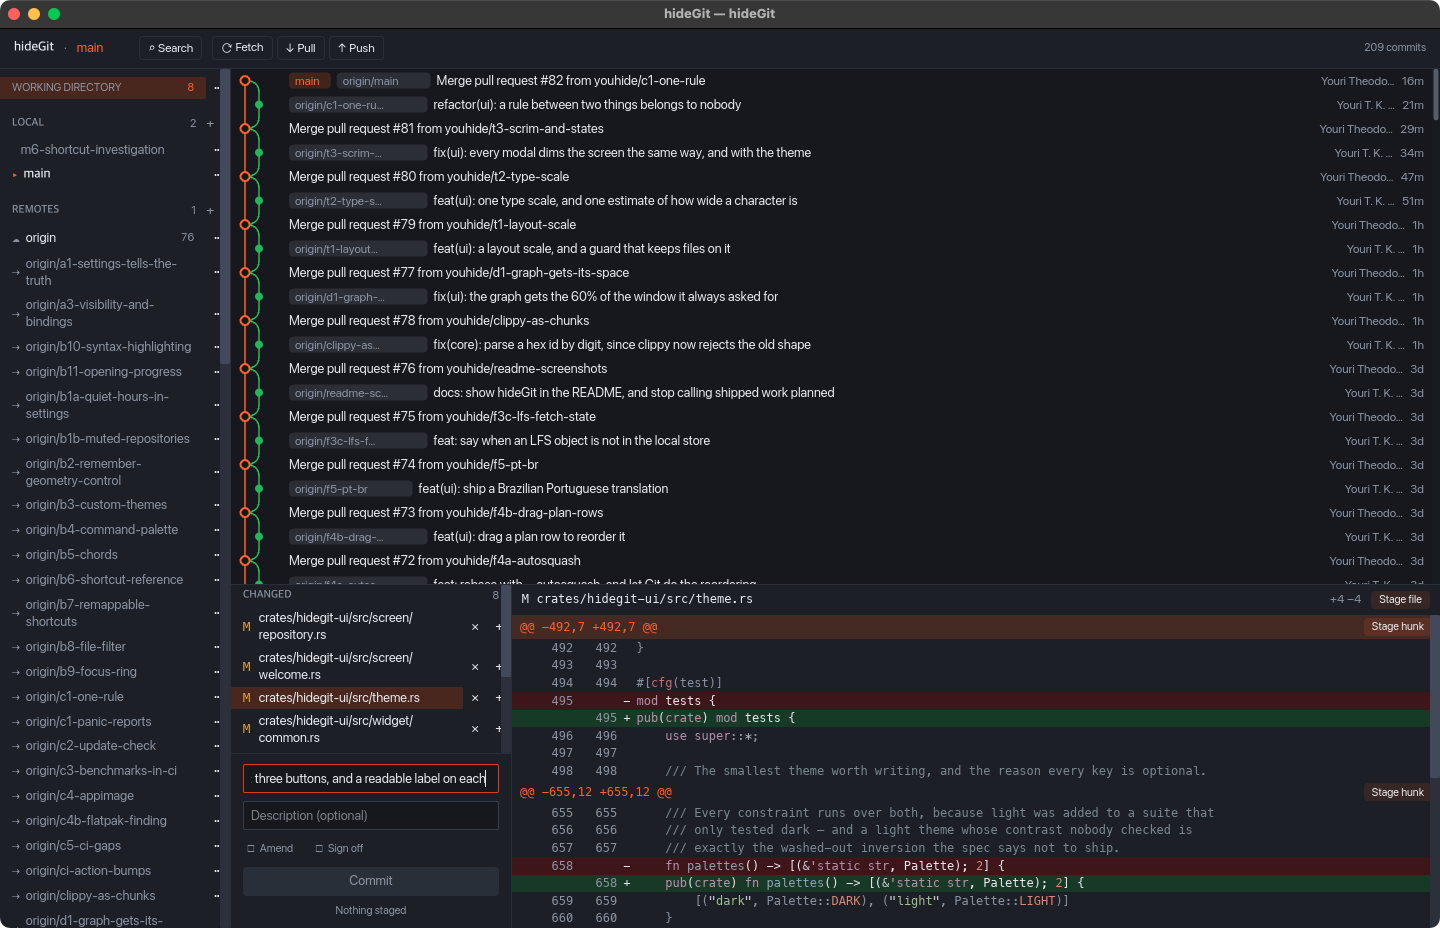
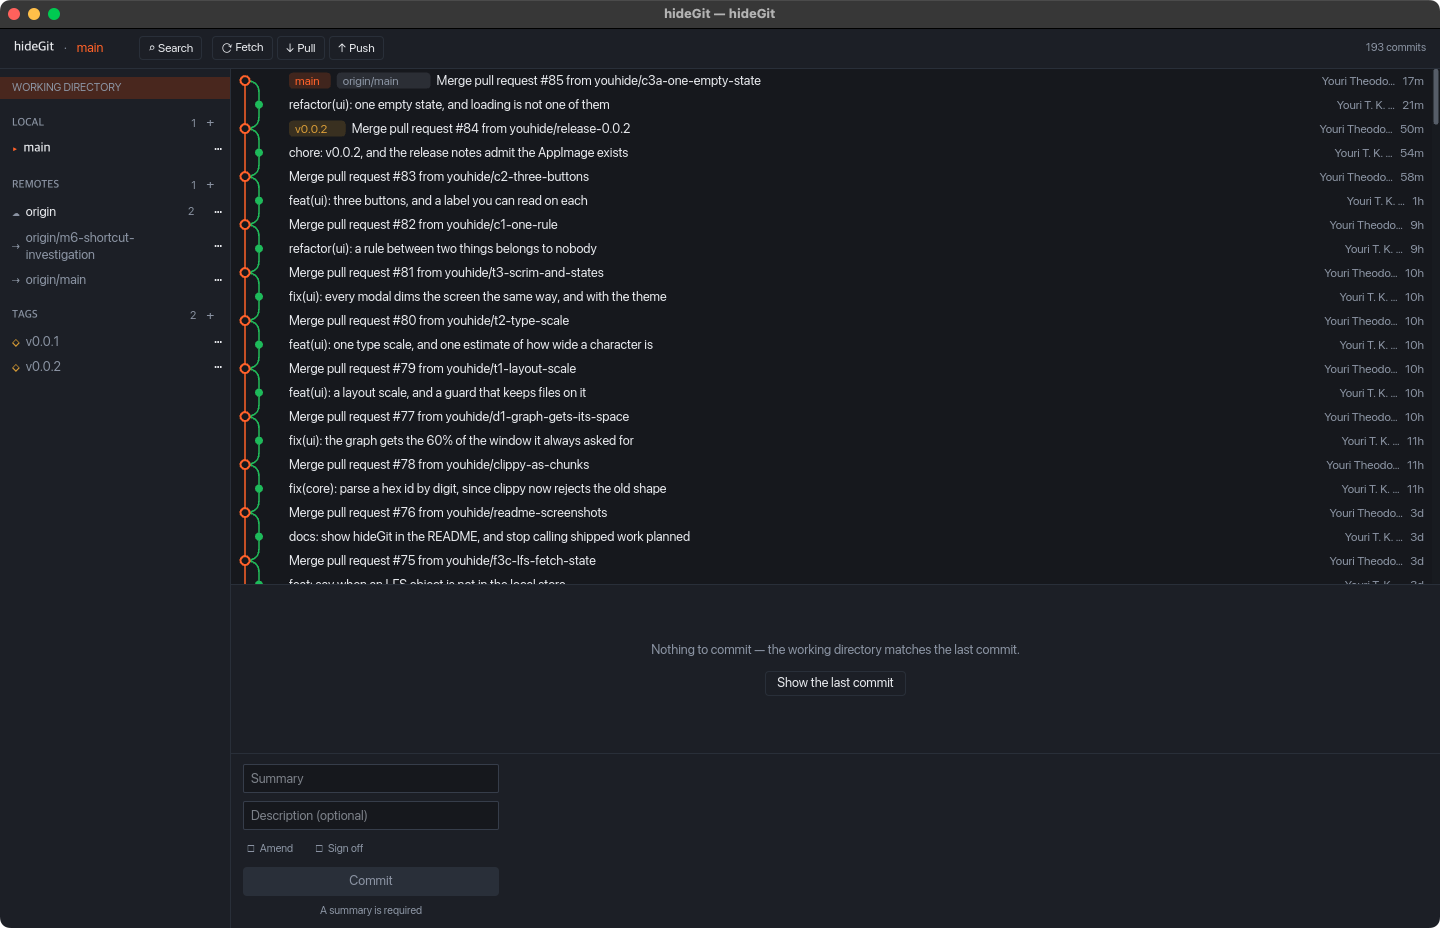
feat(ui): an empty state offers the thing it is describing
`UI_SPEC.md` asks empty states to carry the next action rather than only naming
an absence. Two of them can, and now do.

A clean working directory said "the working directory matches the last commit"
and left you to go and find that commit. Its own doc comment claimed it said
"what to do next", which it did not. It offers the commit instead — one button,
dispatching the selection that was already reachable everywhere else.

A file filter matching nothing said so and stopped. It offers to clear itself.

Both dispatch messages that already existed, so nothing new is plumbed through
the update loop: this is a button where there was a sentence, not a feature.

An action is offered only when it exists. An unborn branch has no last commit,
so that state keeps the sentence and no button — one that selected a commit
which is not there would be worse than none, and a test holds that open.

The strings go through the catalogue rather than inline, which is what ADR-0008
asks of new user-facing text, and both locales get them. That needed the
catalogue to reach two widgets it did not: `detail::view` and `staging::view`
each take it now, threaded from the screen that already had it.

Worth flagging rather than hiding: `staging::view` was already eleven arguments
behind an `#[allow(clippy::too_many_arguments)]`, and this makes it thirteen.
Bundling them into a struct is the right answer and is not this change.
[…]

diff --git a/crates/hidegit-ui/src/app/tests/render.rs b/crates/hidegit-ui/src/app/tests/render.rs
@@ -769,3 +769,94 @@ fn the_graph_gets_most_of_the_window() {
          taking the space the graph asked for"
     );
 }
+
+/// A repository whose working directory has nothing in it.
+fn app_clean() -> Hidegit {
+    let mut app = app_with(3);
+    let _ = app.update(Message::Repo(
+        0,
+        RepoMessage::Selected(Selection::WorkingDirectory),
+    ));
+    let _ = app.update(Message::Repo(
+        0,
+        RepoMessage::StatusLoaded(Box::new(Ok(StatusLoad {
+            status: WorktreeStatus::default(),
+            staged: Diff::default(),
+            unstaged: Diff::default(),
+        }))),
+    ));
+    app
+}
+
+#[test]
+fn a_clean_working_directory_offers_the_commit_it_matches() {
+    // `UI_SPEC.md` asks an empty state to carry the next action. This one used
+    // to say "the working directory matches the last commit" and leave you to
+    // find that commit yourself, which is a description standing in for an
+    // action.
+    let app = app_clean();
+
+    shows(
+        &app,
+        "Nothing to commit — the working directory matches the last commit.",
+    );
+    shows(&app, "Show the last commit");
+}
+
+#[test]
+fn offering_the_last_commit_actually_selects_it() {
+    // The button has to reach the commit, not merely name it.
+    let app = app_clean();
+    let head = app.app.repos[0]
+        .head
+        .target()
+        .expect("the fixture has commits");
+
+    let mut ui = render(&app);
+    ui.click("Show the last commit")
+        .expect("the button is there");
+
+    let sent: Vec<Message> = ui.into_messages().collect();
+    assert!(
+        sent.iter().any(|message| matches!(
+            message,
+            Message::Repo(0, RepoMessage::Selected(Selection::Commit(id))) if *id == head
+        )),
+        "got {sent:?}"
+    );
+}
+
+#[test]
+fn an_unborn_branch_has_no_commit_to_offer() {
+    // Nothing to show, so nothing is offered — a button that selected a commit
+    // that does not exist would be worse than no button.
+    let mut app = app_clean();
+    {
+        let repo = app.app.repos.get_mut(0).expect("one repository");
+        repo.head = Head::Unborn {
+            name: RefName {
+                kind: RefKind::LocalBranch,
+                full: "refs/heads/main".to_owned(),
+                short: "main".to_owned(),
+            },
+        };
+    }
+
+    let mut ui = render(&app);
+    assert!(
+        ui.find("Show the last commit").is_err(),
+        "an unborn branch has no last commit"
+    );
+}
+
+#[test]
+fn a_filter_that_matches_nothing_offers_to_clear_itself() {
+    let mut app = app_showing_a_commit();
+
+    let _ = app.update(Message::Repo(
+        0,
+        RepoMessage::FileFilterChanged("zzz".to_owned()),
+    ));
+
+    shows(&app, "Clear the filter");
+}

diff --git a/crates/hidegit-ui/src/widget/staging.rs b/crates/hidegit-ui/src/widget/staging.rs
@@ -40,12 +40,14 @@ pub fn view<'a>(
     state: RepoState,
     resolver: Option<&'a Resolver>,
     palette: &'a Palette,
+    text_catalogue: &'a crate::i18n::Catalogue,
+    head: Option<hidegit_core::model::ObjectId>,
 ) -> Element<'a, RepoMessage> {
     // Even a clean tree gets the composer: amending the last commit is a real
     // thing to want, and it needs nothing staged.
     if status.is_clean() && !draft.amend {
         return column![
-            container(clean(palette)).height(Fill),
+            container(clean(palette, text_catalogue, head)).height(Fill),
             common::divider(palette),
             container(composer(status, draft, state, palette)).width(Length::Fixed(LIST_WIDTH)),
         ]
@@ -383,24 +385,31 @@ fn describe(conflict: &Conflict) -> &'static str {
     }
 }
 
-/// A clean working directory says what it means, and what to do next.
-fn clean<'a>(palette: &Palette) -> Element<'a, RepoMessage> {
-    let palette = *palette;
-    container(
-        column![
-            text("Nothing to commit")
-                .size(metrics::text::LEAD)
-                .color(palette.text),
-            text("The working directory matches the last commit.")
-                .size(metrics::text::BODY)
-                .color(palette.muted),
-        ]
-        .spacing(6)
-        .align_x(Center),
-    )
-    .center_x(Fill)
-    .center_y(Fill)
-    .into()
+/// A clean working directory says what it means, and offers the commit it
+/// matches.
+///
+/// The old wording — "the working directory matches the last commit" — was a
+/// description standing in for an action nobody could take from here.
+/// `UI_SPEC.md` asks an empty state to carry the next one, and the next one is
+/// reading that commit.
+///
+/// An unborn branch has no commit to offer, so it keeps the sentence alone.
+fn clean<'a>(
+    palette: &Palette,
+    text_catalogue: &'a crate::i18n::Catalogue,
+    head: Option<hidegit_core::model::ObjectId>,
+) -> Element<'a, RepoMessage> {
+    let message = text_catalogue.get("empty.nothing-to-commit");
+
+    match head {
+        Some(id) => common::empty_offering(
+            message,
+            text_catalogue.get("empty.show-last-commit"),
+            RepoMessage::Selected(crate::state::Selection::Commit(id)),
+            palette,
+        ),
+        None => common::empty(message, palette),
+    }
 }
 
 /// The commit message editor, and the button that acts on it.

diff --git a/crates/hidegit-ui/src/widget/detail.rs b/crates/hidegit-ui/src/widget/detail.rs
@@ -12,7 +12,11 @@ use crate::state::{DetailPane, DiffMode, FILE_FILTER_ID, OpenRepo, Selection};
 use crate::theme::Palette;
 use crate::widget::common;
 
-pub fn view<'a>(repo: &'a OpenRepo, palette: &'a Palette) -> Element<'a, RepoMessage> {
+pub fn view<'a>(
+    repo: &'a OpenRepo,
+    palette: &'a Palette,
+    text_catalogue: &'a crate::i18n::Catalogue,
+) -> Element<'a, RepoMessage> {
     let body: Element<'a, RepoMessage> = match &repo.detail {
         DetailPane::Empty => common::empty("Select a commit to read its message and diff", palette),
         DetailPane::Loading => common::loading("Loading…", palette),
@@ -34,6 +38,7 @@ pub fn view<'a>(repo: &'a OpenRepo, palette: &'a Palette) -> Element<'a, RepoMes
                 stash,
                 repo.blame.as_ref(),
                 palette,
+                text_catalogue,
             )
         }
         DetailPane::WorkingDirectory {
@@ -53,6 +58,8 @@ pub fn view<'a>(repo: &'a OpenRepo, palette: &'a Palette) -> Element<'a, RepoMes
             repo.state,
             repo.resolver.as_ref(),
             palette,
+            text_catalogue,
+            repo.head.target(),
         ),
         // The one pane whose contents did not come from the repository.
         DetailPane::PullRequest(detail) => crate::widget::pr::detail(detail, palette),
@@ -84,6 +91,7 @@ fn commit<'a>(
     stash: Option<&'a StashEntry>,
     blame: Option<&'a crate::state::BlameView>,
     palette: &'a Palette,
+    text_catalogue: &'a crate::i18n::Catalogue,
 ) -> Element<'a, RepoMessage> {
     let c = &detail.commit;
 
@@ -335,13 +343,12 @@ fn commit<'a>(
     // Said rather than left as an empty column, which reads as a commit that
     // touched nothing.
     let listing: Element<'a, RepoMessage> = if shown.is_empty() {
-        container(
-            text("No file matches that.")
-                .size(metrics::text::LABEL)
-                .color(palette.muted),
+        common::empty_offering(
+            text_catalogue.get("empty.no-file-matches"),
+            text_catalogue.get("empty.clear-filter"),
+            RepoMessage::FileFilterChanged(String::new()),
+            palette,
         )
-        .padding(10)
-        .into()
     } else {
         scrollable(files).height(Fill).into()
     };

diff --git a/crates/hidegit-ui/src/widget/common.rs b/crates/hidegit-ui/src/widget/common.rs
@@ -64,6 +64,38 @@ pub fn empty<'a, M: 'a>(message: impl text::IntoFragment<'a>, palette: &Palette)
     centred(message, palette)
 }
 
+/// An empty state that carries the next action, which `UI_SPEC.md` asks all of
+/// them to.
+///
+/// The action is a button rather than a sentence telling you where to click.
+/// "The working directory matches the last commit" is a description; a button
+/// that shows you that commit is the thing the description was standing in for.
+pub fn empty_offering<'a, M: Clone + 'a>(
+    message: impl text::IntoFragment<'a>,
+    label: impl text::IntoFragment<'a>,
+    action: M,
+    palette: &Palette,
+) -> Element<'a, M> {
+    let muted = palette.muted;
+    let palette = *palette;
+
+    container(
+        iced::widget::column![
+            text(message).size(metrics::text::BODY).color(muted),
+            iced::widget::button(text(label).size(metrics::text::BODY))
+                .padding(iced::Padding::from([metrics::SNUG, metrics::WIDE]))
+                .style(move |_, status| button::quiet(palette, status))
+                .on_press(action),
+        ]
+        .spacing(metrics::WIDE)
+        .align_x(iced::Center),
+    )
+    .width(Fill)
+    .height(Fill)
+    .center(Fill)
+    .into()
+}
+
 /// What a pane shows while it is still reading.
 ///
 /// The same picture as [`empty`] and deliberately not the same function. A pane

diff --git a/crates/hidegit-ui/src/screen/repository.rs b/crates/hidegit-ui/src/screen/repository.rs
@@ -80,7 +80,7 @@ pub fn view<'a>(
                 common::divider(palette).map(repo_message),
                 container(ring(
                     Pane::Detail,
-                    detail::view(repo, palette).map(repo_message)
+                    detail::view(repo, palette, &app.text).map(repo_message)
                 ))
                 .height(Length::FillPortion(4))
                 .width(Fill),

diff --git a/docs/UI_SPEC.md b/docs/UI_SPEC.md
@@ -932,10 +932,18 @@ on screen and taken nowhere. Copying does not dismiss the toast.
 PRs → connect GitHub, or "you have no open pull requests"; clean working directory → the last
 commit.
 
-They are drawn by `widget/common::empty`, which replaced three helpers rendering the same centred
-muted line three ways. **Most of them do not carry an action yet** — the welcome screen and the PR
-panel do, and the panes that say "Select a file to see its changes" or "Nothing to commit" only
-describe the absence. That gap is real and named here rather than left to be discovered.
+They are drawn by `widget/common::empty`, or by `empty_offering` when there is an action to carry.
+A clean working directory offers the commit it matches; a file filter that matches nothing offers to
+clear itself. The action is a button rather than a sentence telling you where to click — "the
+working directory matches the last commit" was a description standing in for something nobody could
+do from there.
+
+**An action is offered only when it exists.** An unborn branch has no last commit, so that state
+keeps the sentence and no button: one that selected a commit which is not there would be worse than
+none.
+
+The panes that say "Select a file to see its changes" are left as they are. Their next action is
+selecting a row in the list beside them, and a button repeating that would be chrome.
 
 **A pane that is still reading is not an empty pane.** `common::loading` draws the same picture and
 is deliberately a different function: an empty state is getting a next action and "Loading…" has
